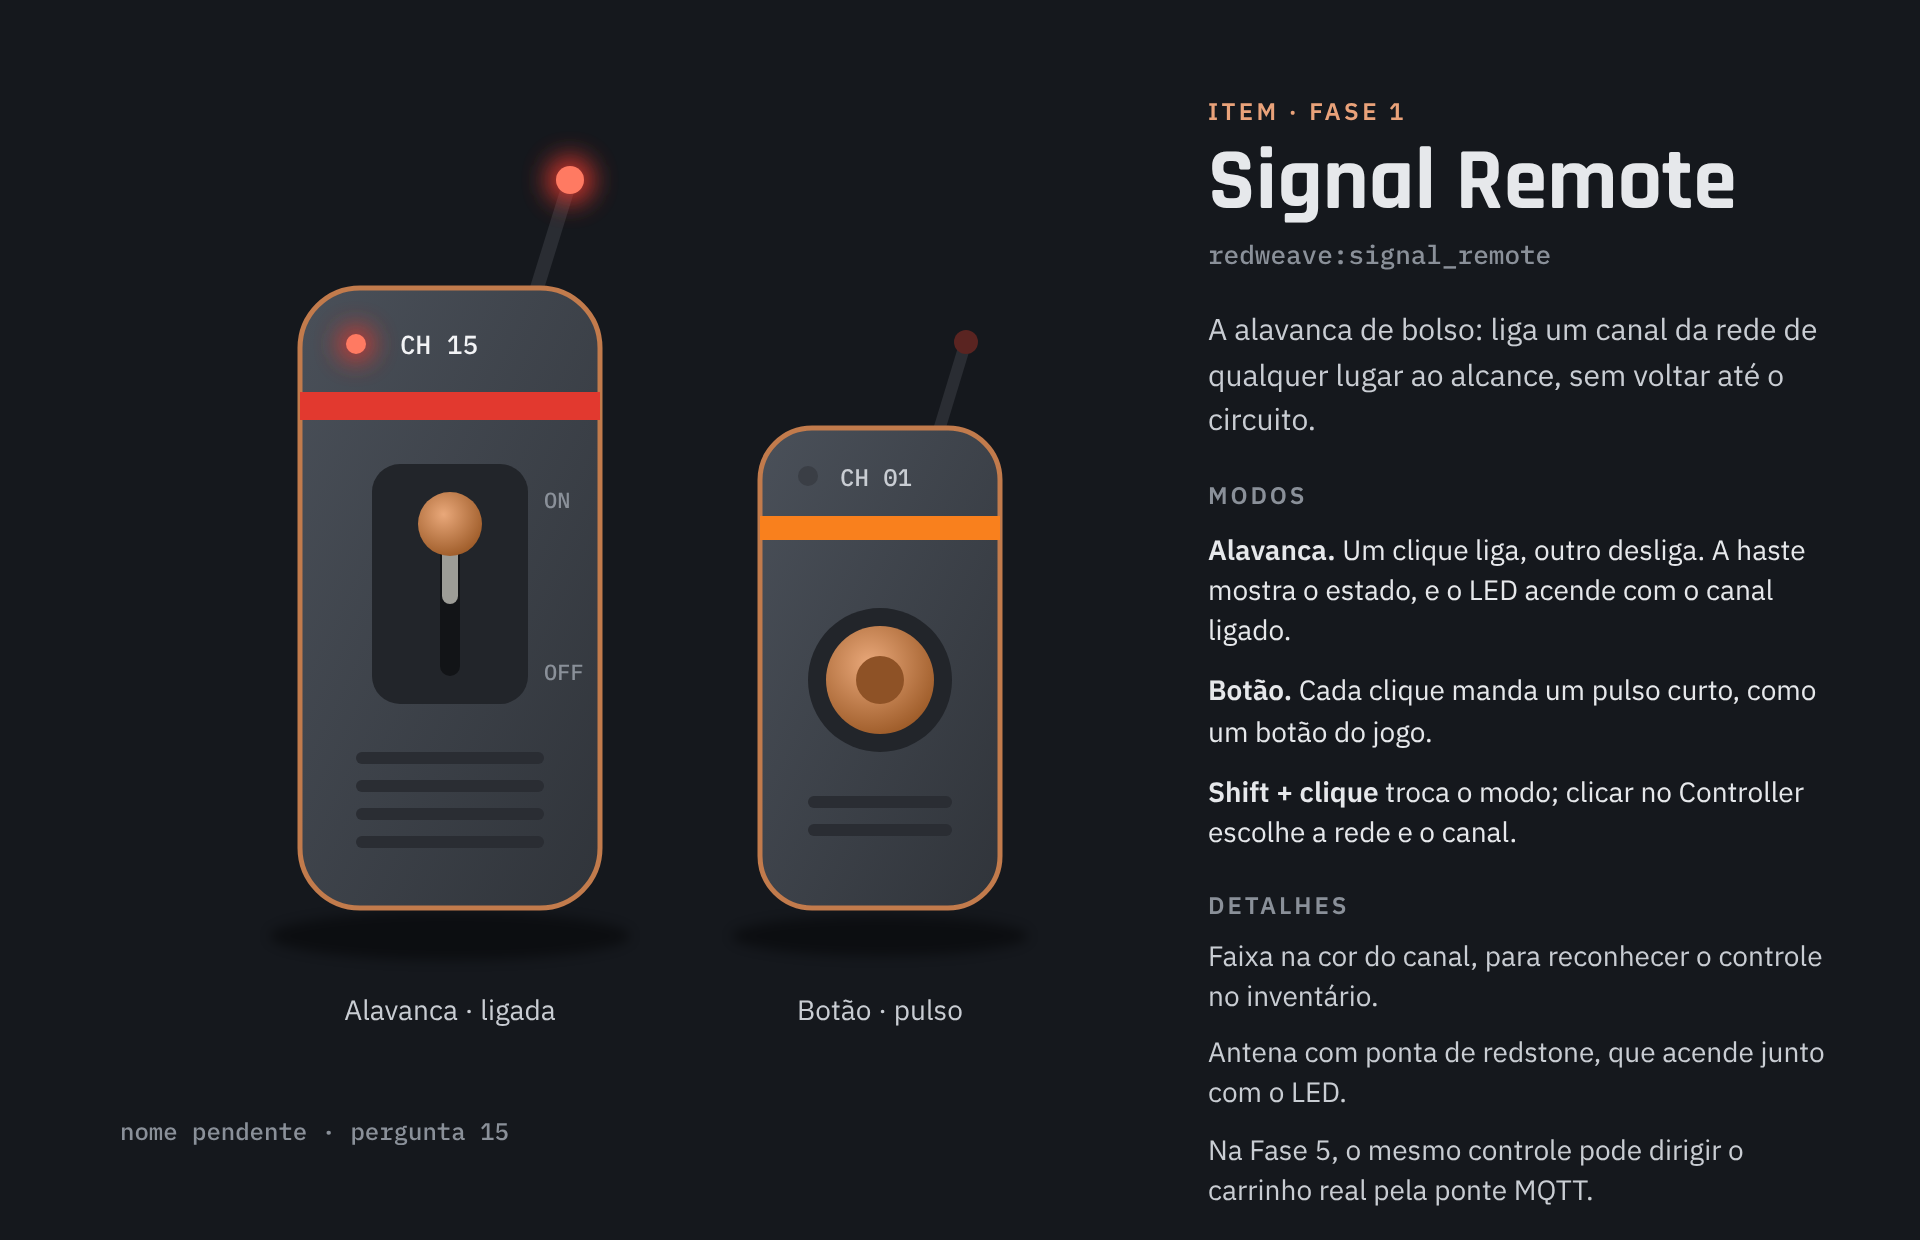
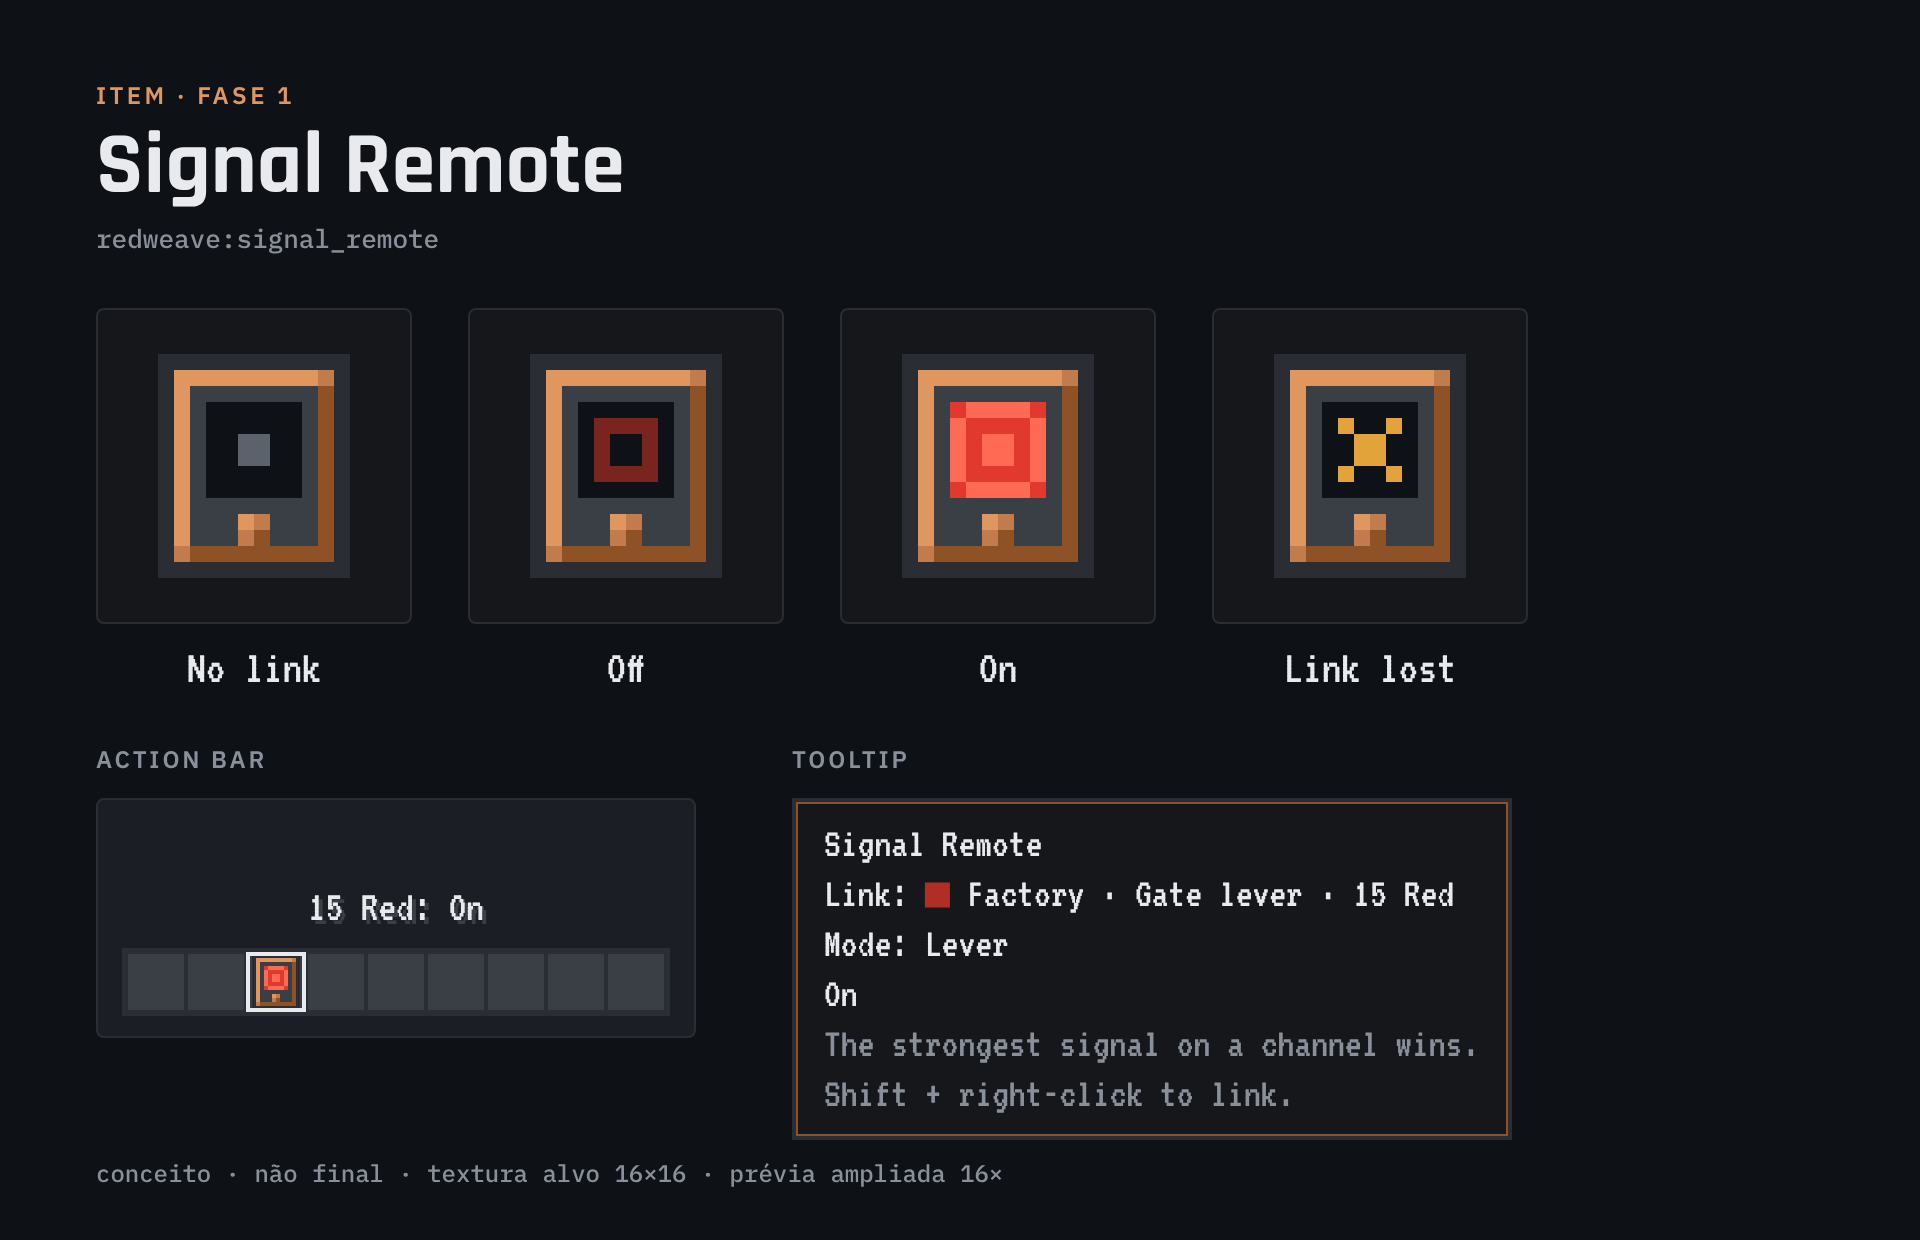
docs: leva as pranchas novas aos documentos

diff --git a/_docs/funcionalidades/telas.md b/_docs/funcionalidades/telas.md
@@ -49,12 +49,11 @@ Um nó `No network` abre na escolha de rede, e não na configuração (pergunta 
 | Status | A pílula `Enabled`, verde, ou `Disabled`, cinza. O clique troca o status (perguntas 226 e 228) |
 | Direção | Seletor `Input` e `Output`. Só muda com o canal `Disabled`; com `Enabled`, fica travado (pergunta 237) |
 | Sinal | Na coluna da esquerda, o medidor de 15 barras com o sinal do canal escolhido e o número; um canal inativo mostra 0 (pergunta 346) |
-| Face do bloco | Na coluna da direita, separada por uma linha, um cubo de 40 px com a face escolhida em cobre e, ao lado, `Block face` e o nome da face, como `East`, e, no hover do cubo, o tooltip `Click a face to choose it. Drag to turn the block.`. Só muda com o canal `Disabled`; um canal nunca ativado parte da face grudada (pergunta 237) |
+| Face do bloco | Na coluna da direita, separada por uma linha, um cubo de 40 px com a face escolhida em cobre e, ao lado, só o nome da face, como `East`, na altura do meio do cubo (pergunta 372), e, no hover do cubo, o tooltip `Click a face to choose it. Drag to turn the block.`. Só muda com o canal `Disabled`; um canal nunca ativado parte da face grudada (pergunta 237) |
 | Rodapé | Uma linha: à esquerda, quantos canais estão ativos, como `3 of 16 channels active`; à direita, só para quem não é o dono, o cadeado (pergunta 347) |
 
 A tela não tem abas laterais. A aba `Info` volta quando tiver conteúdo (pergunta 233). O painel do canal também não tem lógica: o nó só lê e emite, e toda lógica de sinal fica nos Signal Modules (pergunta 308). O painel tem 76 px de altura, o rodapé 20 px e a tela 168 px, e a escolha de rede usa a mesma altura (perguntas 329, 330, 333 e 348).
 
-**Prancha:** a `tela-do-no.png` é anterior às perguntas 277, 308 e 346 e ainda mostra o campo `Name` do slot, a linha `Logic`, a dica da Fase 2 e o painel numa coluna só. Uma prancha nova, gerada por IA, já no layout de duas colunas, a substitui (perguntas 331 e 350); até lá, vale esta página.
 
 ### Comportamento
 
@@ -87,9 +86,7 @@ O que a tela faz, decidido na issue #19.
 | Abas | `Nodes`, `Signals`, `Access` e `Log`, esta com a #90 (perguntas 214 e 215) |
 | Nodes | Uma linha por nó, na ordem em que entraram na rede, com as colunas `Node`, `Type`, `Signal` e `State` (perguntas 216 e 335). O tipo é `In`, `Out`, `In/Out` ou `—`, pelos slots ativos (perguntas 283, 337 e 339). O sinal é o da lente, o mais forte entre as leituras e a emissão, e 0 num nó que não conta (pergunta 98). O estado é `Online`, `Unloaded`, em âmbar, ou `Out of range`, em vermelho, sempre em texto, e só ele leva a cor (perguntas 29, 284 e 336). A posição do nó fica na linha aberta, só para o dono (perguntas 149, 335 e 340). Se e como o Signal Remote aparece na lista, e o estado de um nó numa rede `Offline` nas listas, são decididos no refinamento da #22 (perguntas 318 e 338) |
 | Log | Uma linha por mudança de valor de uma entrada ou de uma saída, a mais nova no topo, com a data e a hora reais do servidor em cinza, o nome do nó, o quadrado da cor e o canal, a direção e o valor à direita, como `2026-11-11 14:32:05  Iron Door  15 Red  Output  12`. Guarda as últimas `log.size` linhas da rede, só em memória, e chega só a quem está com a tela aberta (perguntas 147, 148 e 214) |
-| Rodapé | Na primeira linha, os canais em uso, como `3 of 16 channels in use`, e quantos nós estão `Unloaded`, em âmbar, e `Out of range`, em vermelho, mesmo com zero, como `0 unloaded` e `0 out of range` (perguntas 219 e 236), e quantos Signal Remotes contam agora na rede, como `1 remotes on` (perguntas 361 e 364). Na segunda, `Owner: <dono>` ou, para os outros, o cadeado e `Only the owner can change this network.` |
-
-**Prancha:** a `tela-do-controlador.png` é anterior às perguntas 277 e 335 a 340 e ainda mostra a coluna `Position`, sem `Type` e `State`, e o nome do slot nas linhas abertas. Uma prancha nova, gerada por IA, a substitui (pergunta 342); até lá, vale esta página.
+| Rodapé | Duas linhas, como a prancha (pergunta 373). À esquerda, os canais em uso, como `3 of 16 channels in use`, e, embaixo, `Owner: <dono>` ou, para os outros, o cadeado e `Only the owner can change this network.` À direita, na primeira linha, quantos nós estão `Unloaded`, em âmbar, e quantos Signal Remotes contam agora, como `● 0 unloaded · ● 1 remotes on`; na segunda, os `Out of range`, em vermelho, como `● 0 out of range`. As contagens aparecem mesmo com zero (perguntas 219, 236, 361 e 364) |
 
 O log substitui o gráfico dos últimos 30 segundos (pergunta 150). O conteúdo das abas `Signals` e `Access` está em [`rede-e-canais.md`](rede-e-canais.md#abas-da-tela-do-controlador). Um nó `Unloaded` continua contando para o canal com o último valor lido, e um `Out of range` não conta (perguntas 13, 23 e 29).
 
@@ -141,6 +138,7 @@ Abre com Shift + clique direito com o [Signal Remote](signal-remote.md) na mão,
 
 | Pessoa | Data e hora | Modificação |
 |---|---|---|
+| Zennd | 2026-11-12 21:38 | Troca as pranchas das Telas do Nó e do Controlador pelas novas, tira o rótulo `Block face` e leva as contagens do rodapé do controlador para a direita (perguntas 372 a 374). |
 | Zennd | 2026-11-12 20:49 | Adiciona a tela do vínculo do Signal Remote e a contagem `remotes on` no rodapé do controlador (perguntas 361, 364 e 365). |
 | Zennd | 2026-11-12 19:51 | Reorganiza a Tela do Nó em duas colunas, com o medidor no painel e o rodapé de uma linha, da #122 (perguntas 346 a 350). |
 | Zennd | 2026-11-12 19:01 | Troca as colunas da aba `Nodes` por `Node`, `Type`, `Signal` e `State` e leva a posição para a linha aberta, da #107 (perguntas 335 a 340), e marca a prancha do controlador para substituição (pergunta 342). |

diff --git a/_docs/conceito/visual.md b/_docs/conceito/visual.md
@@ -182,12 +182,13 @@ O modo e a configuração copiada ficam em data components do item (regra 7 do `
 
 ### Signal Remote
 
-Item, `redweave:signal_remote`, com aparência de tablet (pergunta 279). Shift + clique direito abre a lista de redes, depois a de nós com slot de input ativo e, se houver mais de um, a de slots (perguntas 282 e 286); o clique direito dispara. Modos alavanca e botão, num seletor na tela do vínculo (pergunta 288). Guarda rede, nó e slot; se o vínculo quebra, mostra `Link lost` e não dispara (pergunta 287). Shift + clique direito troca o vínculo a qualquer momento (pergunta 291). O tablet tem 4 estados, trocados pelo data component: sem vínculo, desligado, ligado e `Link lost`. A arte nova vem de `tmp/arte/signal_remote/` e substitui a prancha [`signal-remote.png`](../imagens/conceito/signal-remote.png) e as texturas `signal_remote_*` do conceito antigo, a alavanca de bolso (pergunta 362).
+Item, `redweave:signal_remote`, com aparência de tablet (pergunta 279). Shift + clique direito abre a lista de redes, depois a de nós com slot de input ativo e, se houver mais de um, a de slots (perguntas 282 e 286); o clique direito dispara. Modos alavanca e botão, num seletor na tela do vínculo (pergunta 288). Guarda rede, nó e slot; se o vínculo quebra, mostra `Link lost` e não dispara (pergunta 287). Shift + clique direito troca o vínculo a qualquer momento (pergunta 291). O tablet tem 4 estados, trocados pelo data component: sem vínculo, desligado, ligado e `Link lost`. As texturas são `signal_remote`, `signal_remote_off`, `signal_remote_on` e `signal_remote_lost`, de 16 × 16, e a prancha é a [`signal-remote.png`](../imagens/conceito/signal-remote.png). Elas substituíram as do conceito antigo, a alavanca de bolso (perguntas 362 e 374).
 
 ## Histórico de modificações
 
 | Pessoa | Data e hora | Modificação |
 |---|---|---|
+| Zennd | 2026-11-12 21:38 | Leva ao mod as texturas e a prancha novas do Signal Remote (pergunta 374). |
 | Zennd | 2026-11-12 20:48 | Decide o visual do Signal Remote, com 4 estados e arte nova (pergunta 362). |
 | Zennd | 2026-11-12 19:51 | O medidor da Tela do Nó vai para o painel do canal (pergunta 346). |
 | Zennd | 2026-11-12 19:23 | O modo `Open` abre também as telas do controlador e do Terminal (perguntas 232 e 343). |

diff --git a/_docs/funcionalidades/signal-remote.md b/_docs/funcionalidades/signal-remote.md
@@ -26,7 +26,7 @@ O dono vincula o tablet a um slot de input com Shift + clique direito, e quem o 
 | Vínculo | A rede, o nó e o slot, num data component (regra 7) | 287 |
 | Modo | `Lever` ou `Button`, num data component, escolhido na tela do vínculo | 288 e 365 |
 | Estado | Ligado ou desligado no modo alavanca, e o tick do jogo em que o pulso acaba no modo botão, num data component | 356 e 369 |
-| Visual | 4 estados, trocados pelo data component: sem vínculo, desligado, ligado e `Link lost`. A arte vem de `tmp/arte/signal_remote/` | 362 |
+| Visual | 4 estados, trocados pelo data component: sem vínculo, desligado, ligado e `Link lost`. As texturas são `signal_remote`, `signal_remote_off`, `signal_remote_on` e `signal_remote_lost`, escolhidas pela propriedade de item `look` (pergunta 374) | 362 |
 
 ## Vincular
 
@@ -83,4 +83,5 @@ O rodapé ganha `<n> remotes on`, com os tablets que contam agora na rede, ao la
 
 | Pessoa | Data e hora | Modificação |
 |---|---|---|
+| Zennd | 2026-11-12 21:39 | Aponta as texturas dos 4 estados do tablet (pergunta 374). |
 | Zennd | 2026-11-12 20:48 | Cria o documento, com as decisões 352 a 371 da #22. |
